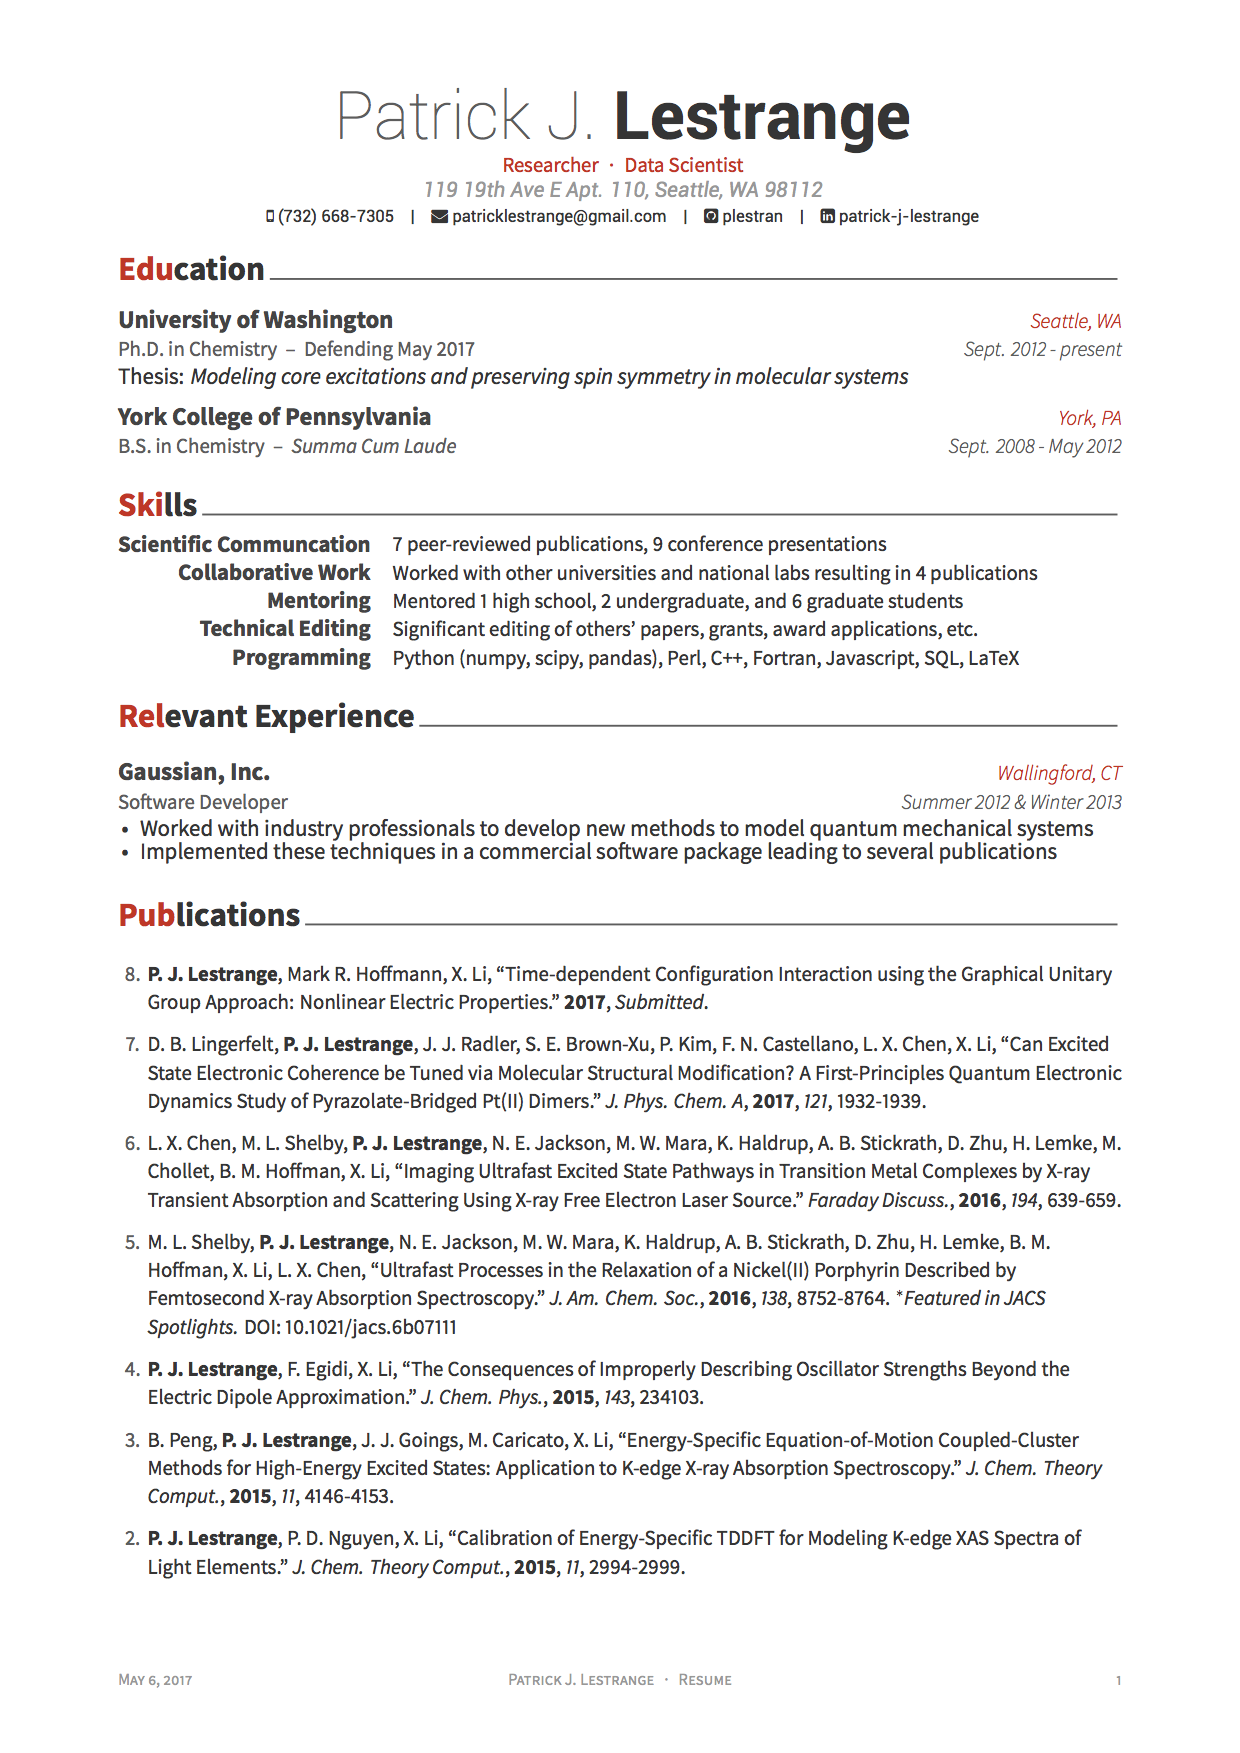
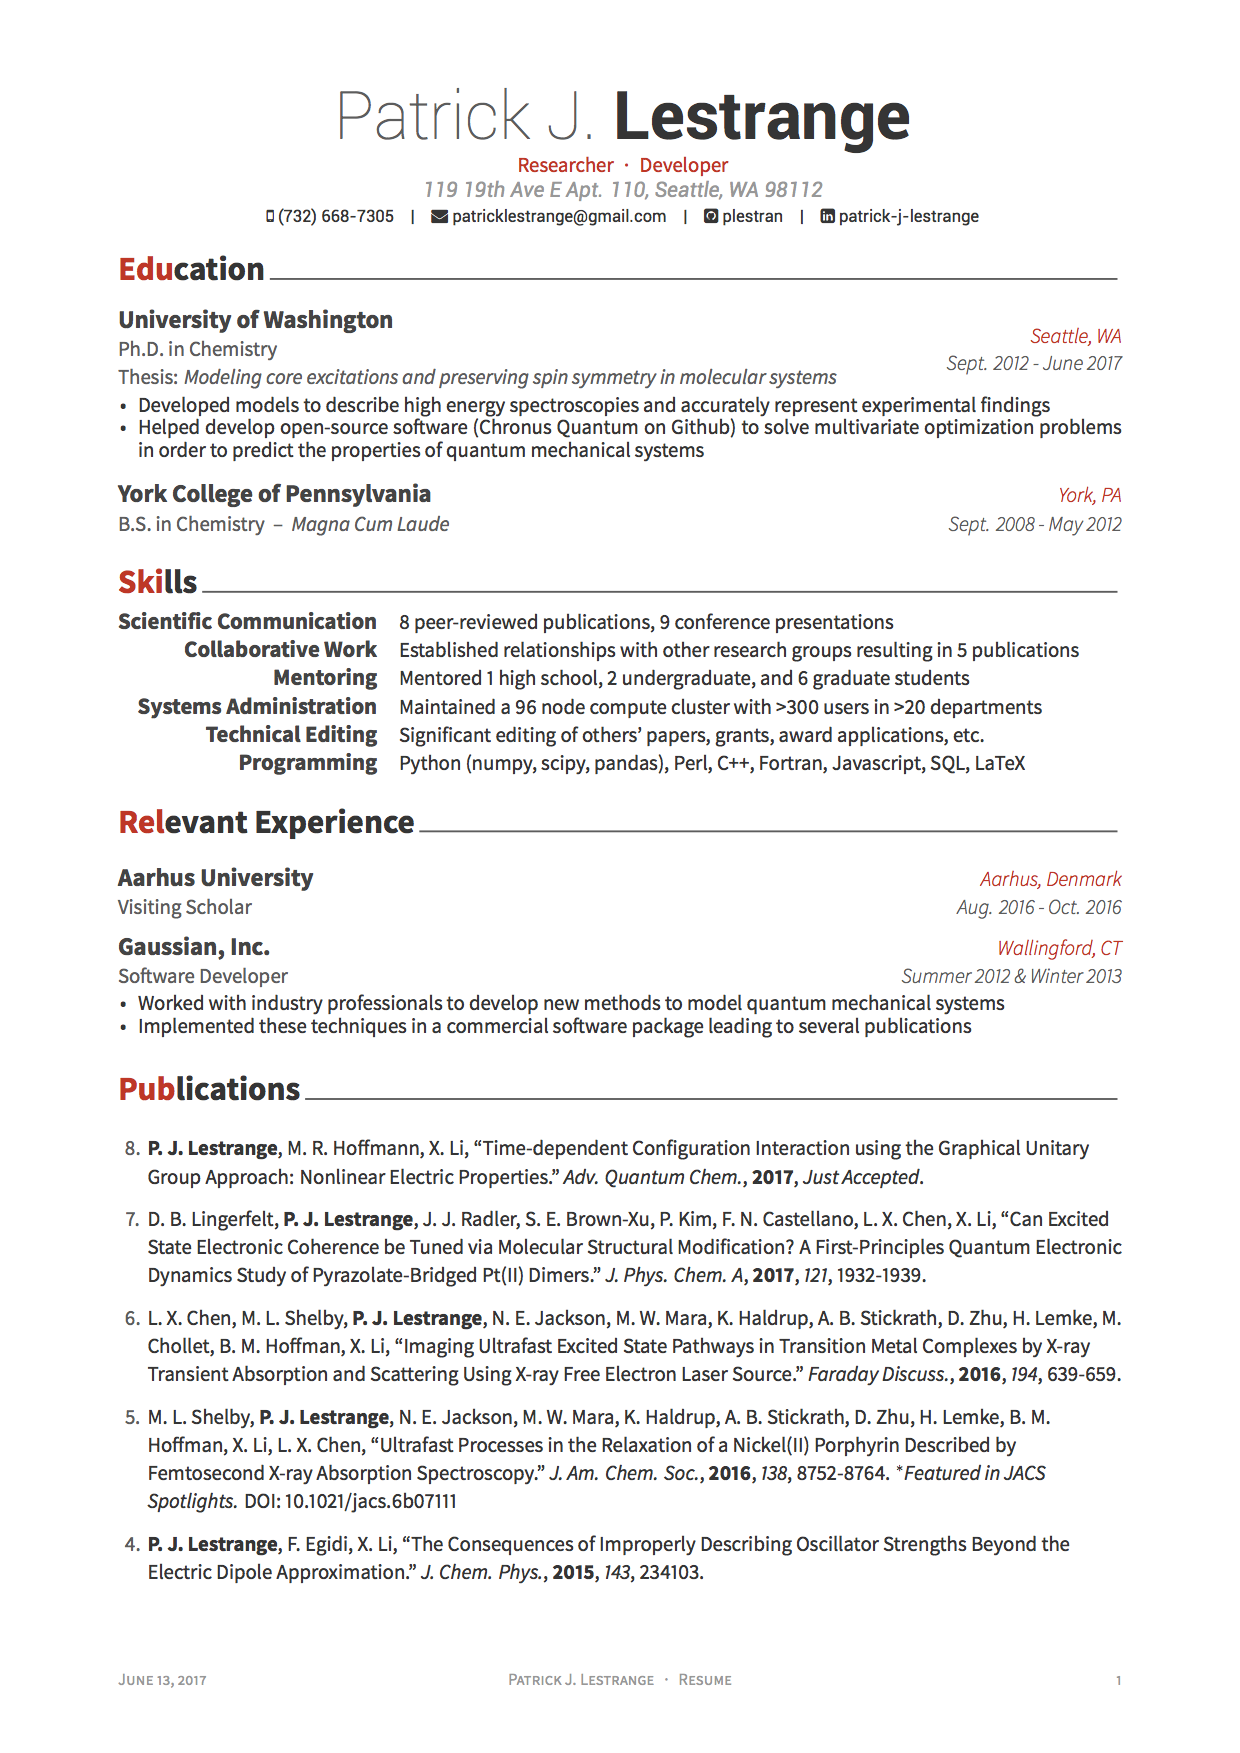
changed font size for descriptionstyle and updated example resume

diff --git a/examples/resume-sections/education.tex b/examples/resume-sections/education.tex
@@ -13,24 +13,26 @@
 %------------------------------------------------
 
 \cventry
-{Ph.D. in Chemistry~~--~~Defending May 2017} % Degree
+{Ph.D. in Chemistry \newline
+Thesis: \textit{Modeling core excitations and preserving spin symmetry in molecular systems}} % Degree
 {University of Washington} % Institution
-{Seattle, WA} % Location
-{Sept. 2012 - present} % Date(s)
-{Thesis: \textit{Modeling core excitations and preserving spin symmetry in molecular systems}}
+{Seattle, WA\vspace{-0.5cm}} % Location
+{Sept. 2012 - June 2017} % Date(s)
+%{}
 % Description(s) bullet points
-%\begin{cvitems}
-%\item{Derived new methods to model high energy and nonlinear spectroscopic techniques}
-%\item{Helped develop open-source software to solve multivariate optimization problems to model complex quantum mechanical systems}
-%\end{cvitems}
-%}
+{\begin{cvitems}
+%\item{Modeled complex molecular processes with computational experiments to explain or predict outcomes of in-lab experiments from collaborators.}
+\item{Developed models to describe high energy spectroscopies and accurately represent experimental findings}
+\item{Helped develop open-source software (Chronus Quantum on Github) to solve multivariate optimization problems in order to predict the properties of quantum mechanical systems}
+\end{cvitems}
+}
 
 %------------------------------------------------
 
 %------------------------------------------------
 
 \cventry
-{B.S. in Chemistry~~--~~\textit{Summa Cum Laude}} % Degree
+{B.S. in Chemistry~~--~~\textit{Magna Cum Laude}} % Degree
 {York College of Pennsylvania} % Institution
 {York, PA} % Location
 {Sept. 2008 - May 2012} % Date(s)

diff --git a/examples/resume-sections/skills.tex b/examples/resume-sections/skills.tex
@@ -7,27 +7,32 @@
 %----------------------------------------------------------------------------------------
 %	SECTION CONTENT
 %----------------------------------------------------------------------------------------
-%Seven years of research experience. Extensive background in \\
 
 \begin{cvskills}
 
 %------------------------------------------------
 
 \cvskill
-{Scientific Communcation} % Category
-{7 peer-reviewed publications, 9 conference presentations} % Skills
+{Scientific Communication} % Category
+{8 peer-reviewed publications, 9 conference presentations} % Skills
 
 %------------------------------------------------
 
 \cvskill
 {Collaborative Work} % Category
-{Worked with other universities and national labs resulting in 4 publications} % Skills
+{Established relationships with other research groups resulting in 5 publications} % Skills
 
 %------------------------------------------------
 
 \cvskill
 {Mentoring} % Category
 {Mentored 1 high school, 2 undergraduate, and 6 graduate students} % Skills
+
+%------------------------------------------------
+
+\cvskill
+{Systems Administration} % Category
+{Maintained a 96 node compute cluster with >300 users in >20 departments} % Skills
 
 %------------------------------------------------
 

diff --git a/examples/resume-sections/publications.tex b/examples/resume-sections/publications.tex
@@ -12,9 +12,15 @@
 
 %------------------------------------------------
 
+%\cvpublication
+%{9.} 
+%{\textbf{P. J. Lestrange}, D. B. Williams-Young, C. A. Jim\'enez-Hoyos, X. Li, ``An Efficient Implementation of Variation After Projection Generalized Hartree-Fock." \textit{In preparation}.} 
+
+%------------------------------------------------
+
 \cvpublication
 {8.} 
-{\textbf{P. J. Lestrange}, Mark R. Hoffmann, X. Li, ``Time-dependent Configuration Interaction using the Graphical Unitary Group Approach: Nonlinear Electric Properties." \textbf{2017}, \textit{Submitted}.} 
+{\textbf{P. J. Lestrange}, M. R. Hoffmann, X. Li, ``Time-dependent Configuration Interaction using the Graphical Unitary Group Approach: Nonlinear Electric Properties." \textit{Adv. Quantum Chem.}, \textbf{2017}, \textit{Just Accepted}.} 
 
 %------------------------------------------------
 

diff --git a/examples/resume.tex b/examples/resume.tex
@@ -52,14 +52,14 @@
 \mobile{(732) 668-7305}
 
 \email{patricklestrange@gmail.com}
-%\homepage{www.posquit0.com}
+%\homepage{}
 \github{plestran}
 \linkedin{patrick-j-lestrange}
 %\skype{skypeid}
 %\stackoverflow{SOid}{SOname}
 %\twitter{@twit}
 
-\position{Researcher{\enskip\cdotp\enskip}Data Scientist} % Your expertise/fields
+\position{Researcher{\enskip\cdotp\enskip}Developer} % Your expertise/fields
 %\quote{``Make the change that you want to see in the world."} % A quote or statement
 
 \makecvfooter{\today}{Patrick J. Lestrange~~~·~~~Resume}{\thepage} % Specify the letter footer with 3 arguments: (<left>, <center>, <right>), leave any of these blank if they are not needed

diff --git a/examples/resume-sections/experience.tex b/examples/resume-sections/experience.tex
@@ -10,7 +10,20 @@
 
 \begin{cventries}
 
-%------------------------------------------------
+%------------------------------------------------    
+
+\cventry
+{Visiting Scholar} % Job title
+{Aarhus University} % Organization
+{Aarhus, Denmark} % Location
+{Aug. 2016 - Oct. 2016} % Date(s)
+{ % Description(s) of tasks/responsibilities
+%\begin{cvitems}
+%\item {Established a collaboration with some of the most prominent researchers in the field}
+%\end{cvitems}
+}
+
+%------------------------------------------------    
 
 \cventry
 {Software Developer} % Job title
